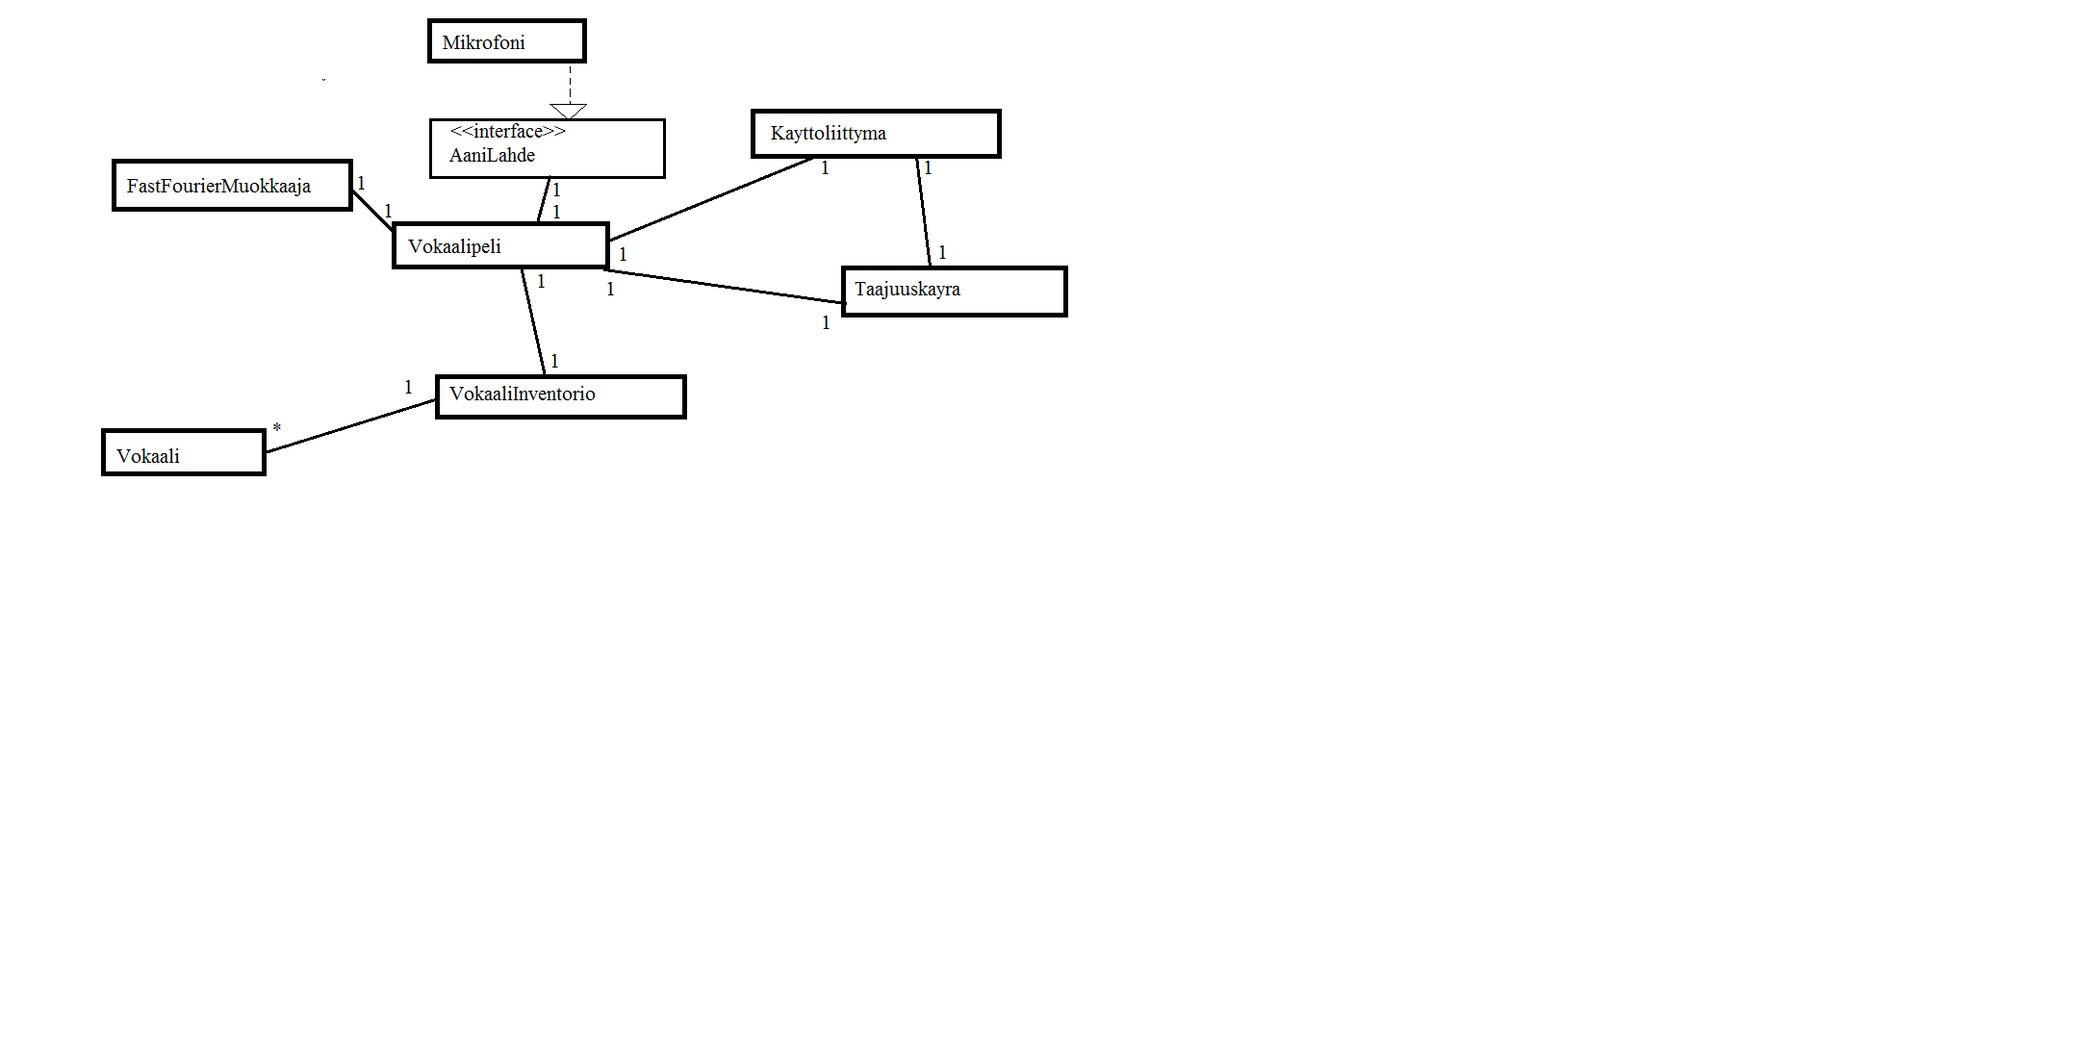
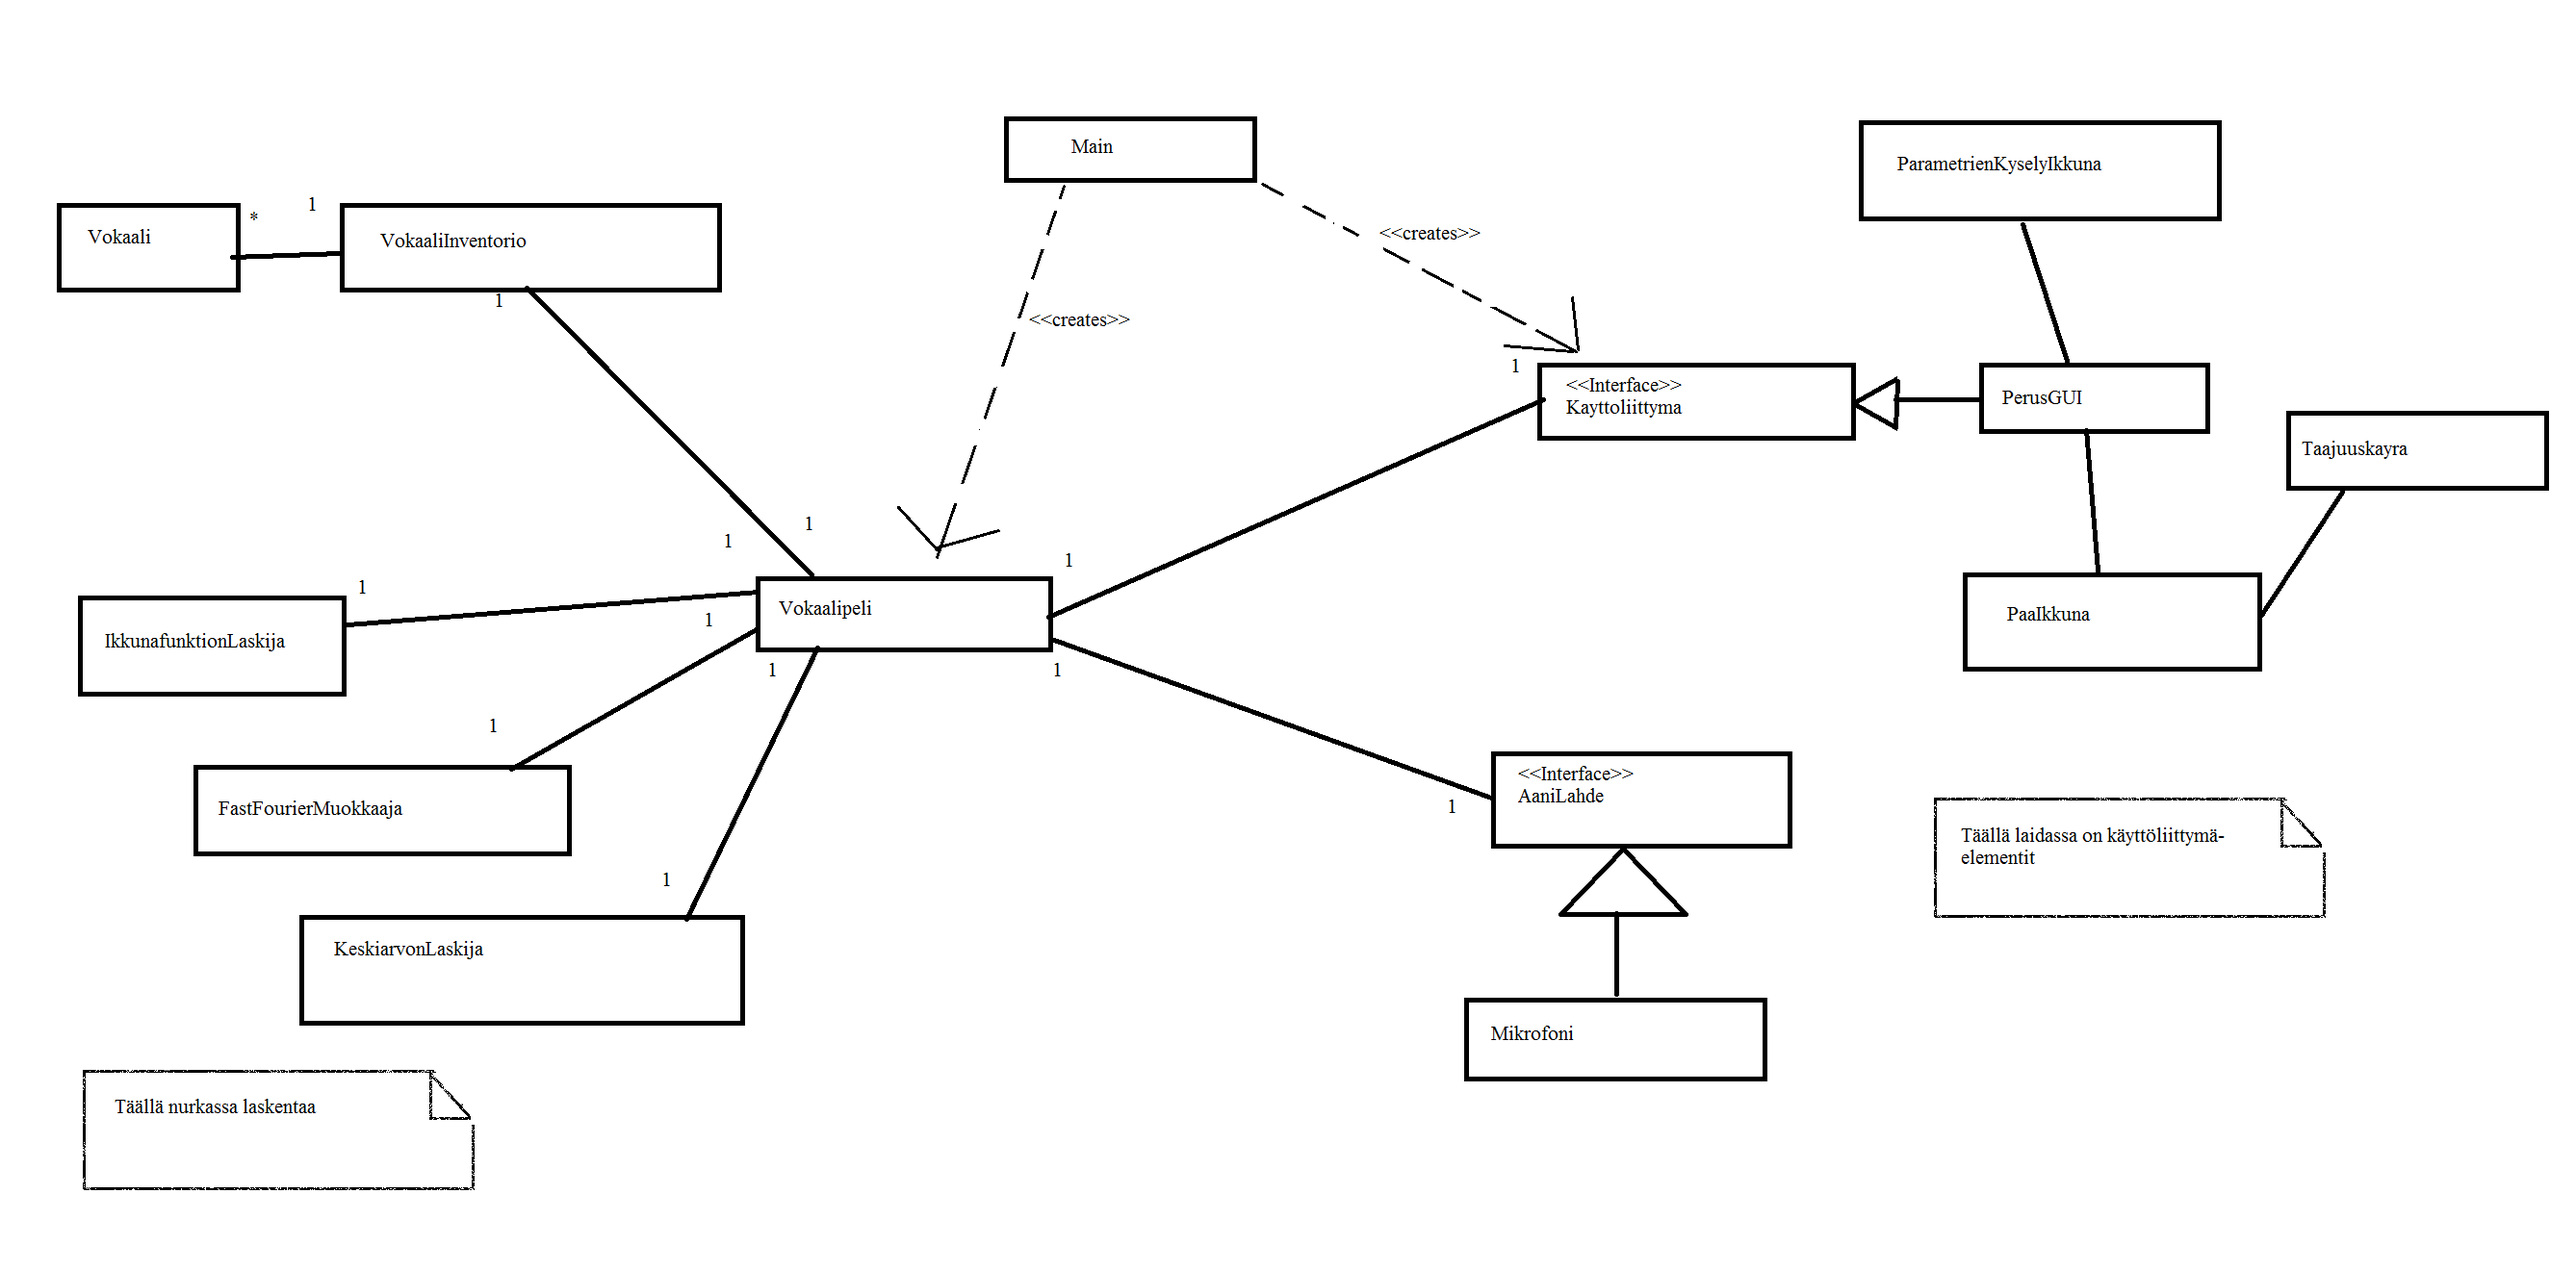
sekvenssikaavioita yms

diff --git a/vokaalipeli/src/vokaalipeli/kayttoliittyma/PerusGUI.java b/vokaalipeli/src/vokaalipeli/kayttoliittyma/PerusGUI.java
@@ -12,11 +12,10 @@ import vokaalipeli.peli.Vokaalipeli;
  *
  * @author A J Salmi
  */
-public class PerusGUI implements Runnable, Kayttoliittyma {
+public class PerusGUI implements Kayttoliittyma {
 
     private ParametrienKyselyIkkuna ikkuna;
     private Paaikkuna paaikkuna;
-    private Taajuuskayra taajuuskayra;
     private int korkeus;
     private int leveys;
     private Vokaalipeli peli;
@@ -38,7 +37,7 @@ public class PerusGUI implements Runnable, Kayttoliittyma {
     }
 
     public void asetaArvotKayralle(double[]arvot){
-        this.taajuuskayra.setArvot(arvot);
+        this.paaikkuna.asetaArvotTaajuuskayralle(arvot);
     }
 
      /**
@@ -50,7 +49,7 @@ public class PerusGUI implements Runnable, Kayttoliittyma {
      */
     @Override
     public void run() {
-        ikkuna = new ParametrienKyselyIkkuna();
+        this.ikkuna = new ParametrienKyselyIkkuna();
         
         ikkuna.getKaynnistysnappi().addActionListener(new ActionListener() {
             
@@ -69,7 +68,7 @@ public class PerusGUI implements Runnable, Kayttoliittyma {
             boolean bigEndian = ikkuna.getTavujarjestys();                        
             AudioFormat formaatti = new AudioFormat(naytteenottoTaajuus, tavuaPerNayte, 1, signed, bigEndian);
             peli.setAanilahde(new Mikrofoni(formaatti));
-            taajuuskayra = new Taajuuskayra(korkeus - 45, leveys - 20, 60000, naytteenottoTaajuus/2);    
+            Taajuuskayra taajuuskayra = new Taajuuskayra(korkeus - 45, leveys - 20, 60000, naytteenottoTaajuus/2);    
             paaikkuna = new Paaikkuna(taajuuskayra, leveys, korkeus);
             ikkuna.dispose();
             ikkuna = null;

diff --git a/vokaalipeli/src/vokaalipeli/peli/Vokaalipeli.java b/vokaalipeli/src/vokaalipeli/peli/Vokaalipeli.java
@@ -7,7 +7,6 @@ import javax.sound.sampled.AudioFormat;
 import javax.sound.sampled.AudioInputStream;
 import vokaalipeli.kayttoliittyma.AaniLahde;
 import vokaalipeli.kayttoliittyma.Kayttoliittyma;
-//import vokaalipeli.kayttoliittyma.Taajuuskayra;
 import vokaalipeli.laskenta.FastFourierMuokkaaja;
 import vokaalipeli.laskenta.Ikkunafunktio;
 import vokaalipeli.laskenta.IkkunafunktionLaskija;
@@ -16,11 +15,12 @@ import vokaalipeli.laskenta.KeskiarvonLaskija;
 /**
  * Luokka sisältää keskeisimmät osat koko ohjelmasta. Se ottaa talteen
  * äänisyötteen AaniLahde-rajapinnan toteuttavan olion AudioInputStreamistä, 
- * lähettää sen muokattavaksi FastFourierMuokkaajalle ja lähettää arvot taajuuskäyrälle. 
- * [vai käyttikselle joka puolestaa lähettää eteenpäin ??]
+ * lähettää sen muokattavaksi FastFourierMuokkaajalle ja lähettää arvot 
+ * käyttikselle.
  *
  * TODO: ...ja pitää myös kirjaa kullakin hetkellä tavoiteltavasta vokaalista
- * TODO: ...ja vastaa myös uuden vokaalin pyytämisestä VokaaliInventoriolta
+ * TODO: ...ja vastaa myös uuden vokaalin pyytämisestä VokaaliInventoriolta ja 
+ *          lähettämisestä käyttikselle
  *
  * @author A J Salmi
  */

diff --git a/vokaalipeli/src/vokaalipeli/kayttoliittyma/ParametrienKyselyIkkuna.java b/vokaalipeli/src/vokaalipeli/kayttoliittyma/ParametrienKyselyIkkuna.java
@@ -22,9 +22,6 @@ import vokaalipeli.laskenta.Ikkunafunktio;
 /**
  * Tänne eriytetään ikkuna parametrien kyselyä varten.
  *
- * TODO : parametrien kysely toimimaan
- *
- *
  * @author A J Salmi
  */
 public class ParametrienKyselyIkkuna extends JFrame {
@@ -171,16 +168,15 @@ public class ParametrienKyselyIkkuna extends JFrame {
 
     private static class PlusJaMiinusnapinKuuntelija implements ActionListener {
 
-        int ikkunanPituus;
         JTextField aikaikkunanValintaKentta;
 
         private PlusJaMiinusnapinKuuntelija(JTextField aikaikkunanValintaKentta) {
-            this.ikkunanPituus = Integer.parseInt(aikaikkunanValintaKentta.getText());
             this.aikaikkunanValintaKentta = aikaikkunanValintaKentta;
         }
 
         @Override
         public void actionPerformed(ActionEvent e) {
+            int ikkunanPituus = Integer.parseInt(aikaikkunanValintaKentta.getText());
             if (e.getActionCommand().trim().equals("*2")) {
                 ikkunanPituus *= 2;
                 if (ikkunanPituus > 32768) {  // minne asti kannattaa laittaa ehdotuksia?

diff --git a/vokaalipeli/src/vokaalipeli/kayttoliittyma/Paaikkuna.java b/vokaalipeli/src/vokaalipeli/kayttoliittyma/Paaikkuna.java
@@ -11,16 +11,26 @@ import javax.swing.WindowConstants;
  * @author A J Salmi
  */
 public class Paaikkuna extends JFrame {
+    private Taajuuskayra kayra;
 
     public Paaikkuna(Taajuuskayra kayra, int leveys, int korkeus) {
         super("Vokaalipeli");
         setPreferredSize(new Dimension(leveys, korkeus));
         setDefaultCloseOperation(WindowConstants.EXIT_ON_CLOSE);
+        this.kayra = kayra;
         luoKomponentit(this.getContentPane(), kayra);
         pack();
         setVisible(true);
     }
 
+    public void asetaArvotTaajuuskayralle(double[] uudetArvot){
+        this.kayra.setArvot(uudetArvot);
+    }
+    
+    public Taajuuskayra getTaajuuskayra(){
+        return this.kayra;
+    }
+    
     /**
      * Metodi täyttää ikkunan halutuilla komponenteilla: taajuuskäyrä
      *

diff --git a/vokaalipeli/src/vokaalipeli/Main.java b/vokaalipeli/src/vokaalipeli/Main.java
@@ -1,5 +1,6 @@
 package vokaalipeli;
 
+import vokaalipeli.kayttoliittyma.Kayttoliittyma;
 import vokaalipeli.kayttoliittyma.PerusGUI;
 import vokaalipeli.peli.Vokaalipeli;
 
@@ -19,7 +20,7 @@ public class Main {
     public static void main(String[] args) {
         
         Vokaalipeli peli = new Vokaalipeli();
-        PerusGUI kayttis = new PerusGUI(peli, 1000, 400);
+        Kayttoliittyma kayttis = new PerusGUI(peli, 1000, 400);
         peli.setKayttoliittyma(kayttis);
         kayttis.run();
         while (peli.getStriimi() == null) {

diff --git a/vokaalipeli/src/vokaalipeli/kayttoliittyma/Kayttoliittyma.java b/vokaalipeli/src/vokaalipeli/kayttoliittyma/Kayttoliittyma.java
@@ -7,7 +7,10 @@ package vokaalipeli.kayttoliittyma;
  *
  * @author A J Salmi
  */
-public interface Kayttoliittyma {
+public interface Kayttoliittyma extends Runnable{
 
     public void asetaArvotKayralle(double[] arvot);
+
+    @Override
+    public void run();
 }
